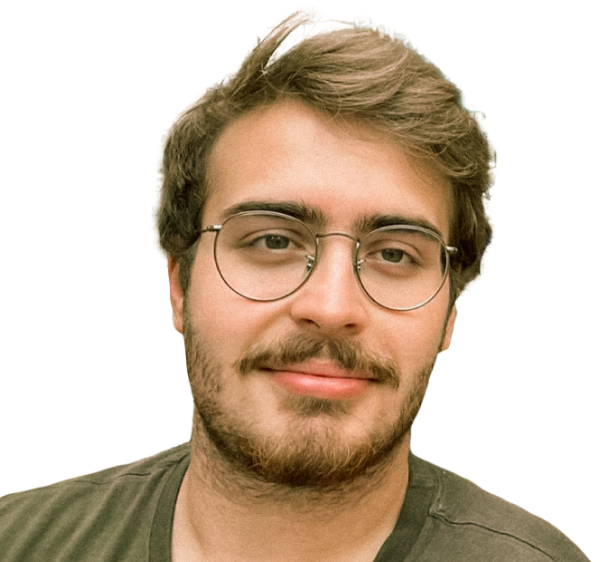
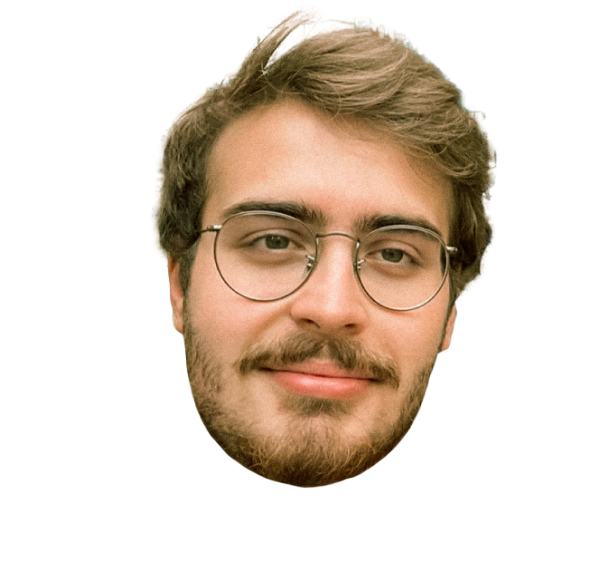
hero portrait fixes

Changed region(s): [[0.0, 0.726, 0.9984, 1.0]]

diff --git a/pages/Home/components/HeroSection.tsx b/pages/Home/components/HeroSection.tsx
@@ -5,6 +5,7 @@ import portrait from "../../../public/images/portrait.jpg";
 
 import styled from "styled-components";
 import HoverableImage from "../../../components/HoverableImage";
+import { useWindowWidth } from "../../../hooks/useWindowWidth";
 
 const Hero = styled.section`
   margin: 0 276px;
@@ -127,6 +128,7 @@ const ImageContainer = styled(Image)`
 `;
 
 const HeroSection = () => {
+  const screenWidth = useWindowWidth();
   return (
     <Hero>
       <HeroInfo>
@@ -140,19 +142,19 @@ const HeroSection = () => {
         </CareerContainer>
       </HeroInfo>
 
-      {/* <HeroPortrait>
-        <ImageContainer
-          src={portrait}
-          alt="portrait of myself"
-          layout="responsive"
-        />
-      </HeroPortrait> */}
-
-      <HeroPortrait>
-        <HoverableImage />
-      </HeroPortrait>
-
-
+      {screenWidth < 1375 ? (
+        <HeroPortrait>
+          <ImageContainer
+            src={portrait}
+            alt="portrait of myself"
+            layout="responsive"
+          />
+        </HeroPortrait>
+      ) : (
+        <HeroPortrait>
+          <HoverableImage />
+        </HeroPortrait>
+      )}
     </Hero>
   );
 };

diff --git a/components/HoverableImage.tsx b/components/HoverableImage.tsx
@@ -4,7 +4,7 @@ import { useSpring, animated } from 'react-spring';
 
 import styled from 'styled-components';
 
-import cutPortrait from '../public/images/cut-portrait2.png';
+import cutPortrait from '../public/images/cut-portrait.png';
 import cutBG from '../public/images/cut-bg.jpg';
 
 
